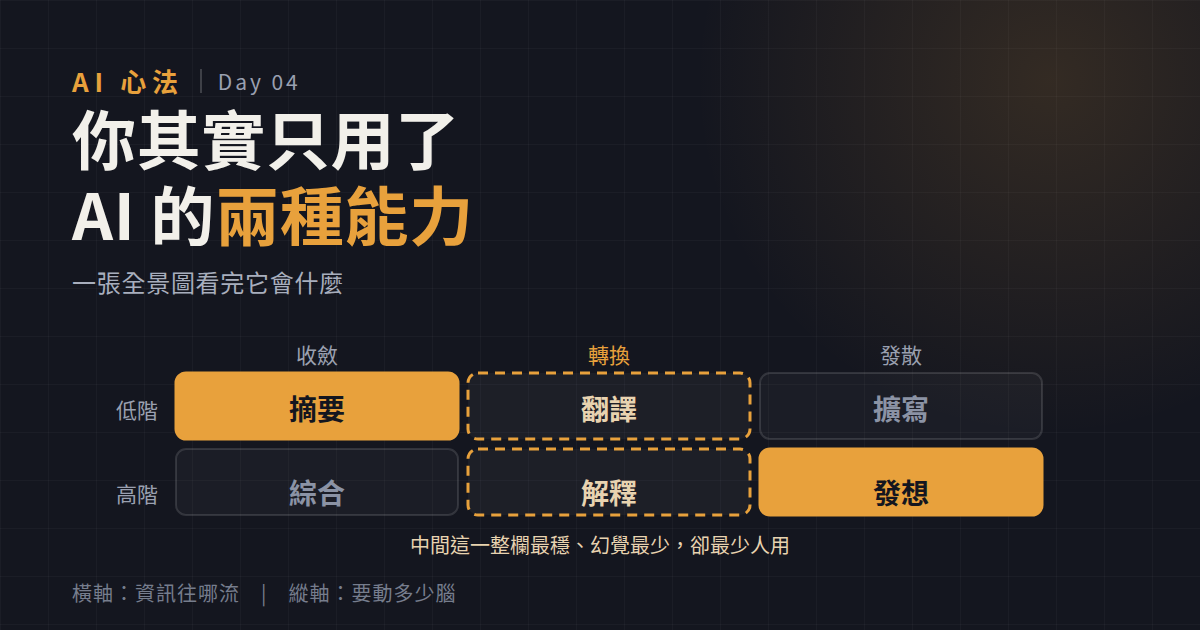
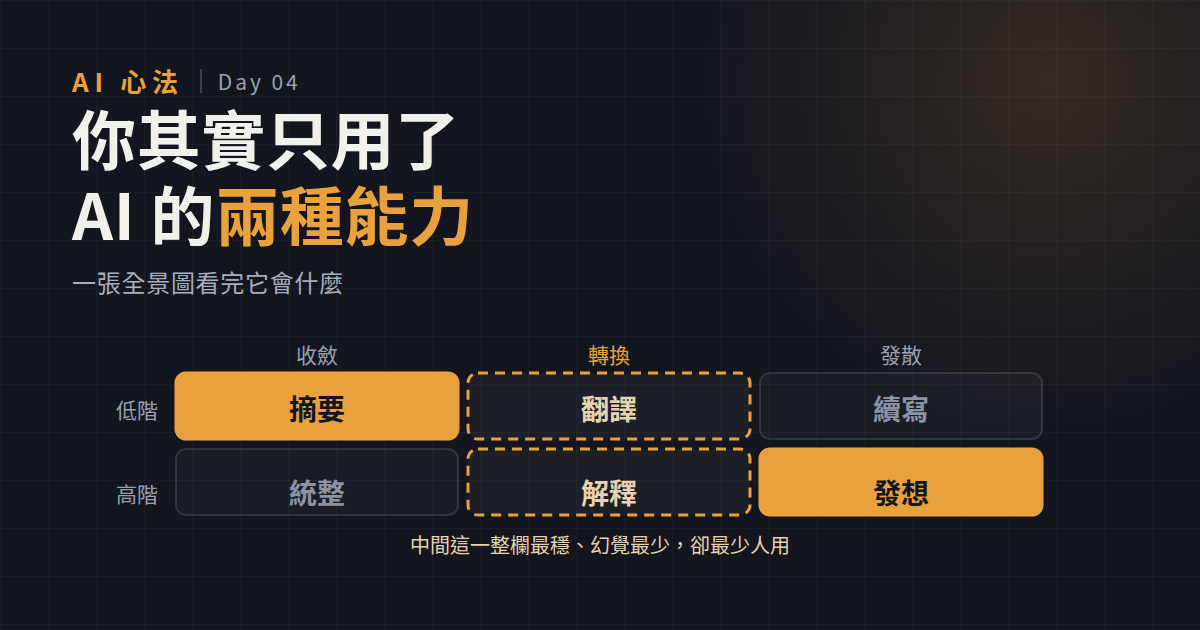
更新 Day 04 封面：對齊定案用詞並拿掉底部軸說明
綜合 → 統整、擴寫 → 續寫，跟上 The Map 定案的用詞；
底部「橫軸／縱軸」說明拿掉，軸義由圖上標籤自己交代，
整張回到一張圖最多三句話

Changed region(s): [[0.0617, 0.9048, 0.4008, 0.9651], [0.2467, 0.754, 0.3083, 0.8143], [0.7092, 0.6333, 0.7708, 0.6635]]

diff --git a/05-notes/ironman/assets/cover-day04.html b/05-notes/ironman/assets/cover-day04.html
@@ -40,9 +40,9 @@ text{font-family:"Noto Sans CJK TC",sans-serif}
     <rect x="396" y="34" width="282" height="66" rx="10" fill="#ffffff0a" stroke="#e8a13c" stroke-width="3" stroke-dasharray="10 7"/>
     <text x="537.0" y="81.0" fill="#e8d3b0" font-size="28" font-weight="700" text-anchor="middle">翻譯</text>
     <rect x="688" y="34" width="282" height="66" rx="10" fill="#ffffff08" stroke="#ffffff20" stroke-width="2"/>
-    <text x="829.0" y="81.0" fill="#8b93a5" font-size="28" font-weight="700" text-anchor="middle">擴寫</text>
+    <text x="829.0" y="81.0" fill="#8b93a5" font-size="28" font-weight="700" text-anchor="middle">續寫</text>
     <rect x="104" y="110" width="282" height="66" rx="10" fill="#ffffff08" stroke="#ffffff20" stroke-width="2"/>
-    <text x="245.0" y="165.0" fill="#8b93a5" font-size="28" font-weight="700" text-anchor="middle">綜合</text>
+    <text x="245.0" y="165.0" fill="#8b93a5" font-size="28" font-weight="700" text-anchor="middle">統整</text>
     <rect x="396" y="110" width="282" height="66" rx="10" fill="#ffffff0a" stroke="#e8a13c" stroke-width="3" stroke-dasharray="10 7"/>
     <text x="537.0" y="165.0" fill="#e8d3b0" font-size="28" font-weight="700" text-anchor="middle">解釋</text>
     <rect x="688" y="110" width="282" height="66" rx="10" fill="#e8a13c" stroke="#e8a13c" stroke-width="3"/>
@@ -50,5 +50,4 @@ text{font-family:"Noto Sans CJK TC",sans-serif}
     <text x="528" y="214" fill="#e8d3b0" font-size="20" text-anchor="middle">中間這一整欄最穩、幻覺最少，卻最少人用</text>
   </svg>
   </div>
-  <div class="foot">橫軸：資訊往哪流　|　縱軸：要動多少腦</div>
 </div></body></html>
